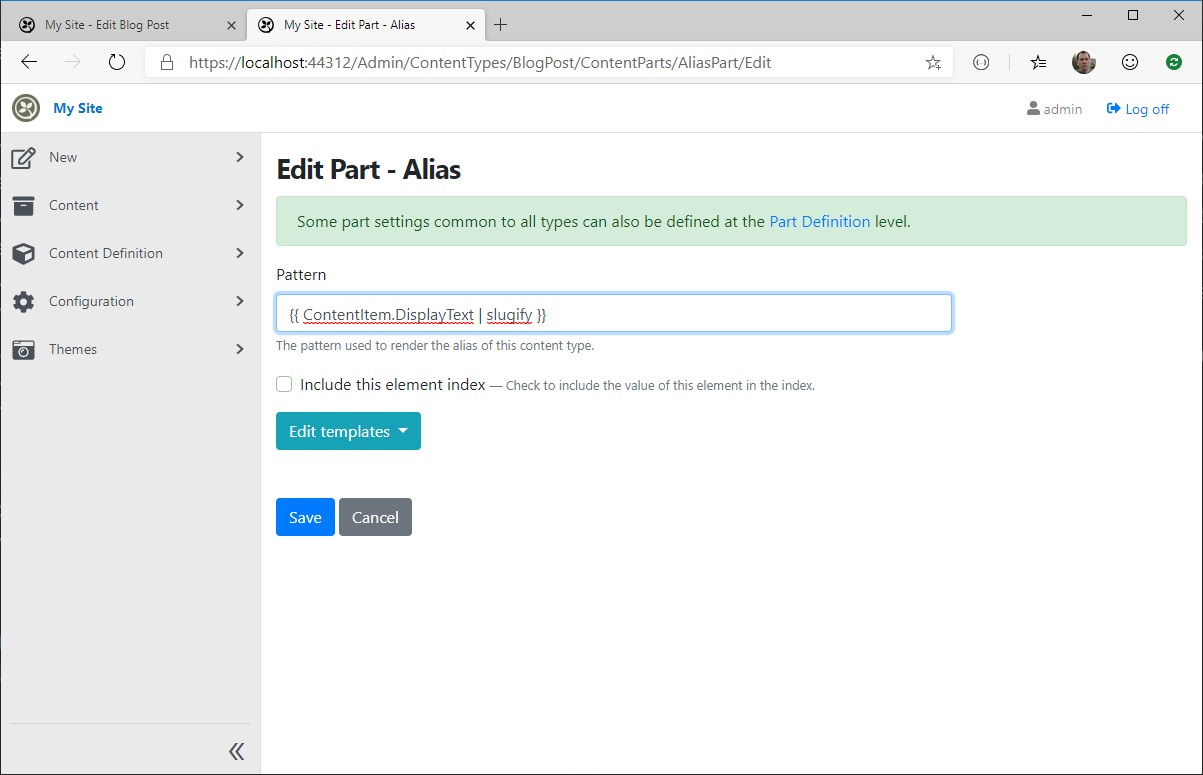
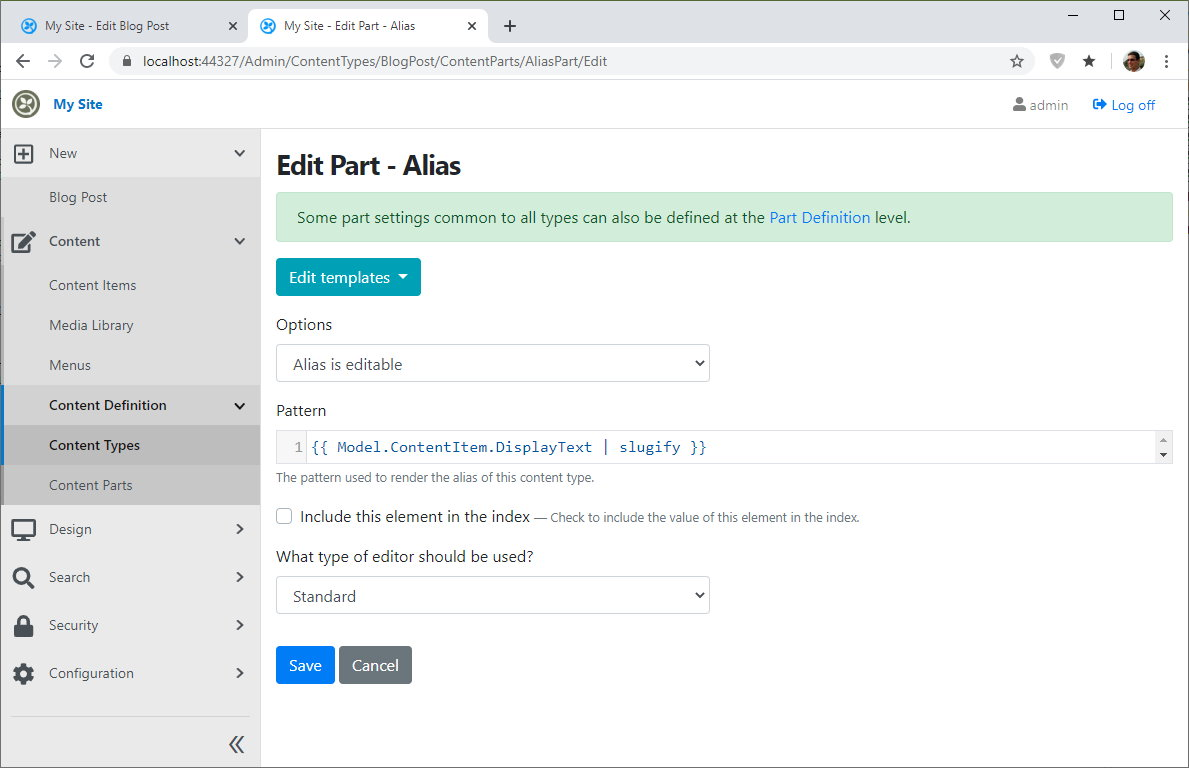
Update decoupled CMS guide for RC2

diff --git a/src/docs/guides/decoupled-cms/README.md b/src/docs/guides/decoupled-cms/README.md
@@ -4,7 +4,10 @@
 
 This article goes through the process of creating a fully functional decoupled CMS website that lets you edit Blog Posts and render them.
 
-__Decoupled__ is a development model where the front-end and the back-end (administration) of the site are hosted in the same web application. Developers can then write their own ASP.NET Razor Pages or Controllers to have total control on what is generated by the website.
+__Decoupled__ is a development model where the front-end and the back-end (administration) of the site are hosted in the same web application but only the back-end is driven by a CMS. Developers can then write their own ASP.NET Razor Pages or Controllers to have total control on what is generated by the website while still utilizing the CMS, in this case Orchard Core, to author content.
+
+!!! note
+    While this guide starts with a new project and uses Razor Pages you can use much of this guide to add Orchard Core as a content management back-end to any existing ASP.NET Core app too.
 
 ![Final Result](images/custom-preview.jpg)
 
@@ -31,7 +34,7 @@ Follow this option if you want to use Visual Studio .NET.
 ![New project](images/new-project.jpg)
 
 - Enter a __Project name__ and a __Location__. For this tutorial we'll use "OrchardSite" for the name. Then click __Create__.
-- Select the __Web Application__ template and click __Create__.
+- Select the __Web Application__ template, leave everything else on default and click __Create__.
 
 #### Option 2 - From the command line
 
@@ -63,17 +66,13 @@ The newly created website should be able to run, and look like this:
 
 This will allow for the Razor Pages to be reloaded without the need to recompile them.
 
-- Modify the `<ItemGroup>` section like this:
+- Add a new `<ItemGroup>` section like this:
 
 ```xml
 <ItemGroup>
-  <PackageReference Include="OrchardCore.Application.Cms.Targets" Version="1.0.0-rc1-10004" />
+  <PackageReference Include="OrchardCore.Application.Cms.Core.Targets" Version="1.0.0-rc2-13450" />
 </ItemGroup>
 ```
-
-!!! hint "Nightly builds"
-    If you are using the nightly builds of Orchard Core (preview feed) then you should use the package `OrchardCore.Application.Cms.Core.Targets` instead.
-
 This will add the packages from Orchard Core CMS
 
 - Edit the `Startup.cs` file `ConfigureServices` method like this:
@@ -279,9 +278,6 @@ Expanding the `MarkdownBodyPart` node reveals the `Markdown` field with the cont
 ...
 ```
 
-!!! warning "Release packages"
-    If you are not using the preview feed packages then this `ConsoleLog` method is not available and the project won't compile. You can then skip this line.
-
 - Refresh the blog post page to reveal the Markdown text.
 - Finally, we can process the Markdown content and convert it to HTML with this code:
 
@@ -324,28 +320,23 @@ We can now update the Razor Page to use the alias instead of the content item id
 }
 ```
 
-!!! warning "Release packages"
-    If you are not using preview feed packages then this method is called `GetContentItemByAliasAsync(string alias)`.
-
 The changes consist in using the `slug` name in both the route and the local property, and also use a new method to load a content item with an alias.
 
 - Open the page `/blogpost/new-day` which should display the exact same result, but using a more SEO and user friendly url.
 
 ### Generating the slug using a custom pattern
 
-!!! warning "Skip on dev"
-    This step is unnecessary if you use the packages from the preview feed, or the source code from the __dev__ branch. If you still follow these steps you'll notice the configuration is already defined.
 
-The __Alias Part__ provides some custom settings in order to let it be generated automatically. In our case we want it to be generated from the __Title__, automatically. To provide such patterns the CMS uses a templating language named __Liquid__, together with some custom functions to manipulate content items properties.
+The __Alias Part__ provides some custom settings in order to let it be generated automatically. In our case we want it to be generated from the __Title__, automatically. To provide such patterns the CMS uses a templating language named __Liquid__, together with some custom functions to manipulate content items' properties. Orchard provides a generally suitable default pattern.
 
 - Edit the content definition of Blog Post, and for the __Alias Part__ click on __Edit__.
-- In the __Pattern__ textbox enter `{{ ContentItem.DisplayText | slugify }}`, then click __Save__.
+- In the __Pattern__ textbox note the pre-filled pattern:
 
 ![Edit Alias Pattern](images/alias-pattern.jpg)
 
-This is dynamically extract the `DisplayText` property of a content item, in our case the __Title__, and call the `slugify` on this values, which will turn the title in a value that can be used in slugs.
+This will dynamically extract the `DisplayText` property of a content item, in our case the __Title__, and call the `slugify` filter on this values, which will turn the title into a value that can be used in slugs.
 
-- Edit the blog post content item
+- Edit the blog post content item.
 - Clear the __Alias__ textbox. This will allow the system to generate it using the custom pattern we defined.
 - Click __Publish (and continue)__.
 
